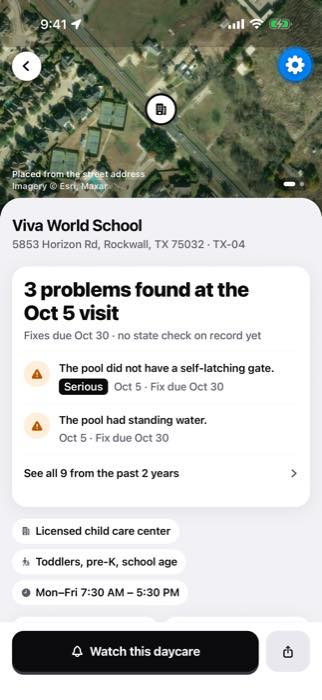
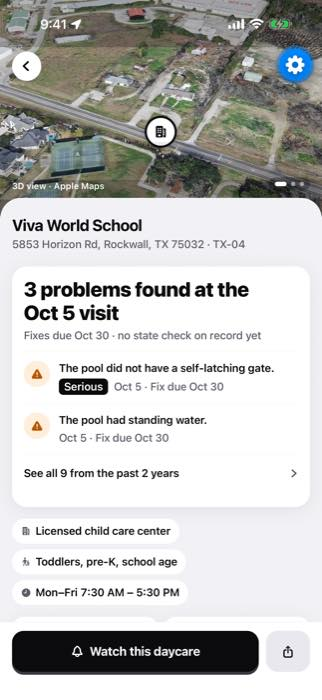
qa: reduce-motion check and matrix results

Changed region(s): [[0.0, 0.0, 1.0, 0.33]]

diff --git a/docs/QA_MATRIX.md b/docs/QA_MATRIX.md
@@ -39,7 +39,7 @@ Rows are tested cold, by someone who did not write the UI.
 | U13 | Home daycare: no street address, no imagery, no house pin | Maestro | PASS | 1490119: no "Imagery", no "Placed from the street address", no street line; DB returns address null + 2-decimal point (pgTAP 011) ([u13-home-0](qa/u13-home-0.jpg)) | design / mobile |
 | U14 | Place with 0 findings | Maestro | PASS | 228100 Stonebriar Preschool Pals: "No problems cited at the May 13 visit", past-2-years rows say "No problems cited", no verdict words ([u14](qa/u14-zero-0.jpg)) | mobile |
 | U15 | Place with many findings | Maestro | PASS | 97587 (220 findings) renders, "See all" works ([u15-many-0](qa/u15-many-0.jpg)) | mobile |
-| U16 | Place with approximate geocode | Maestro | FAIL | 98685: approximate caption truncated and overlapping the map legal mark (D4) ([u16-approx-0](qa/u16-approx-0.jpg), [D4-approx-caption](qa/D4-approx-caption.jpg)); no-point 1120831 renders ([u16-nopoint-0](qa/u16-nopoint-0.jpg)) | mobile |
+| U16 | Place with approximate geocode | Maestro | PASS | 98685: "Approximate location" caption clear of the map’s Legal mark, area circle, no pin ([u16-approx-0](qa/u16-approx-0.jpg)); no-point 1120831 renders. D4 fixed | mobile |
 | U16a | Place with 0 / 1 / 3 street photos | Maestro (after pipeline fills photos) | FEATURE OFF | street photos are collected but not shown for the submission (`lib/mapillary.ts` `SHOW_STREET_PHOTOS = false`, commit dcf1108: a hand check found most showed the wrong building). `u16-photos.yaml` swipes every gallery page on 1396589 (3 photo rows) and 136712 (2): no photo, no Mapillary credit | mobile |
 | U16b | Home daycare never shows photos | pgTAP 009 + Maestro | PASS | pgTAP 009 + 1462404: "Neighborhood only · private home", no photo, no 3D view ([home](qa/u16b-home.jpg)) | platform / mobile |
 | U16c | Approximate geocode never shows photos | pgTAP 009 + Maestro | PASS | pgTAP 009 + 98685: "Approximate location", no photo ([approx](qa/u16c-approx.jpg)) | platform / mobile |
@@ -68,7 +68,7 @@ Rows are tested cold, by someone who did not write the UI.
 | M1 | No overshoot or bounce anywhere (springs critically damped, overshootClamping) | source grep of `withSpring`/`spring` configs + screen recording | PASS (source) | springs overshootClamping; D6 (1.05 pop) and D7 (ZoomIn) fixed by design 01:57, verified by grep; recording pending | mobile / design |
 | M2 | Durations 150–250 ms (sheet excepted); press = 0.98 scale + 0.9 opacity only | source grep of `duration`/`withTiming` + recording | PASS (source) | D8 fixed (NumberCard `motion.slow`); AlertBanner 250 ms; press 0.98/0.9; recording pending | mobile / design |
 | M3 | Lists animate only on first load (max 3 staggered, 30 ms); no re-animation on refresh or scroll | Maestro pull-to-refresh + recording | PASS (source) | entrance animations only on mount: home carousel fades once outside its FlatList (`HomeMap.tsx:260`, "a refresh keeps them mounted"), list rows keyed by `operation_id`, visit dots keyed by `v.id` (`RecordStrip.tsx:245-251`), so a refetch never remounts them | mobile |
-| M4 | Reduce Motion on: movement replaced by fades | simctl Reduce Motion + recording | PASS | `m04-reduce-motion.yaml` (simctl Reduce Motion on): no 3D page and no drift; the credited aerial leads, "Placed from the street address · Imagery © Esri, Maxar" ([m04](qa/m04-place.jpg)). D19 fixed 03:03 | mobile |
+| M4 | Reduce Motion on: movement replaced by fades | simctl Reduce Motion + recording | PASS | `m04-reduce-motion.yaml` + pixel check in `run.sh`: with Reduce Motion on, the place page keeps Apple’s 3D view and it holds still, 0 of 924,000 hero pixels change in 8 s; with it off, 683,981 change (the drift) ([m04](qa/m04-place.jpg)). D19 fixed 03:05 | mobile |
 | M5 | Done screen: one check draw ≤ 400 ms + success haptic, no confetti/particles/pulsing | source + recording | PASS (source) | `Celebration.tsx`: badge fade 200 ms + check wipe 350 ms + success haptic; no confetti/particles/pulse; recording pending | design |
 | M6 | Never two things animating for attention on one screen | recording of each screen | PASS (source) | each screen has one entrance (place: page fade; onboarding: one rise per beat; done: badge then check). Judgment call for the owner: the 3D view keeps a slow 9 s heading drift while the page is open (stops under Reduce Motion) | design |
 
@@ -89,7 +89,7 @@ Rows are tested cold, by someone who did not write the UI.
 | D1 | U2 | mobile | 01:34 Oct 25 | [D1-map-not-centered](qa/D1-map-not-centered.jpg) | High · parent lens · FIXED, re-tested PASS 02:16 (u01) |
 | D2 | U2 | mobile | 01:34 Oct 25 | [D2-location-off-label](qa/D2-location-off-label.jpg) | Med · bad-day lens · FIXED, re-tested PASS 02:16 (u01, u03) |
 | D3 | U13 | design | 01:46 Oct 25 | [D3-home-circle-centered](qa/D3-home-circle-centered.jpg) | WITHDRAWN: circle snaps to a 0.005° grid, 282 m off the house; DB now also rounds home points |
-| D4 | U16 | design | 01:46 Oct 25 | [D4-approx-caption](qa/D4-approx-caption.jpg) | Med · Apple-designer lens · design fixing |
+| D4 | U16 | design | 01:46 Oct 25 | [D4-approx-caption](qa/D4-approx-caption.jpg) | Med · Apple-designer lens · FIXED, re-tested PASS 03:06 (u14-place) |
 | D5 | U12 | design | 01:46 Oct 25 | | Low · Apple-engineer lens: Esri credit shows over a blank hero before tiles load |
 | D6 | M1 | mobile + design | 01:52 Oct 25 | `PlacePage.tsx:144` | Med · Apple-designer lens: Watch confirm pops to 1.05 · FIXED 01:57, verified in source |
 | D7 | M1, M2 | mobile + design | 01:52 Oct 25 | `RecordStrip.tsx:237` | Med · Apple-designer lens: ZoomIn over up to 20 dots (~960 ms) · FIXED 01:57, verified in source |
@@ -104,4 +104,4 @@ Rows are tested cold, by someone who did not write the UI.
 | D16 | U16d | mobile + design | 02:26 Oct 25 | [u16d-viewer](qa/u16d-viewer.jpg) | Low · Apple-engineer lens: credit lacks the CC BY-SA license name · FIXED 02:33, re-tested on screen; feature now off |
 | D17 | U12, U14 | mobile + design | 02:31 Oct 25 | [u14-zero-0](qa/u14-zero-0.jpg) | Med · parent + CAC-judge lens: 3D view (page one) has no pin; can’t tell which building · FIXED 02:33 by design (pin on the 3D view), re-tested PASS (1396589, 1459611) |
 | D18 | U30 | mobile | 02:37 Oct 25 | `maestro hierarchy` | WITHDRAWN 02:38: search pill missing only from the XCUITest snapshot at the half sheet; present at peek and on mobile’s sim |
-| D19 | M4 | design + mobile | 03:02 Oct 25 | [D19](qa/D19-reduce-motion-caption.jpg) | Med · Apple-engineer lens: under Reduce Motion the Esri still is captioned "3D view · Apple Maps", uncredited · FIXED 03:03 (mobile: gallery leaves out 3D under Reduce Motion; design: FlyoverHero keeps 3D, stops drift), re-tested PASS |
+| D19 | M4 | design + mobile | 03:02 Oct 25 | [D19](qa/D19-reduce-motion-caption.jpg) | Med · Apple-engineer lens: under Reduce Motion the Esri still is captioned "3D view · Apple Maps", uncredited · FIXED 03:05 (final: 3D view kept, drift stopped; mobile’s gallery gate removed), re-tested PASS with pixel check |
